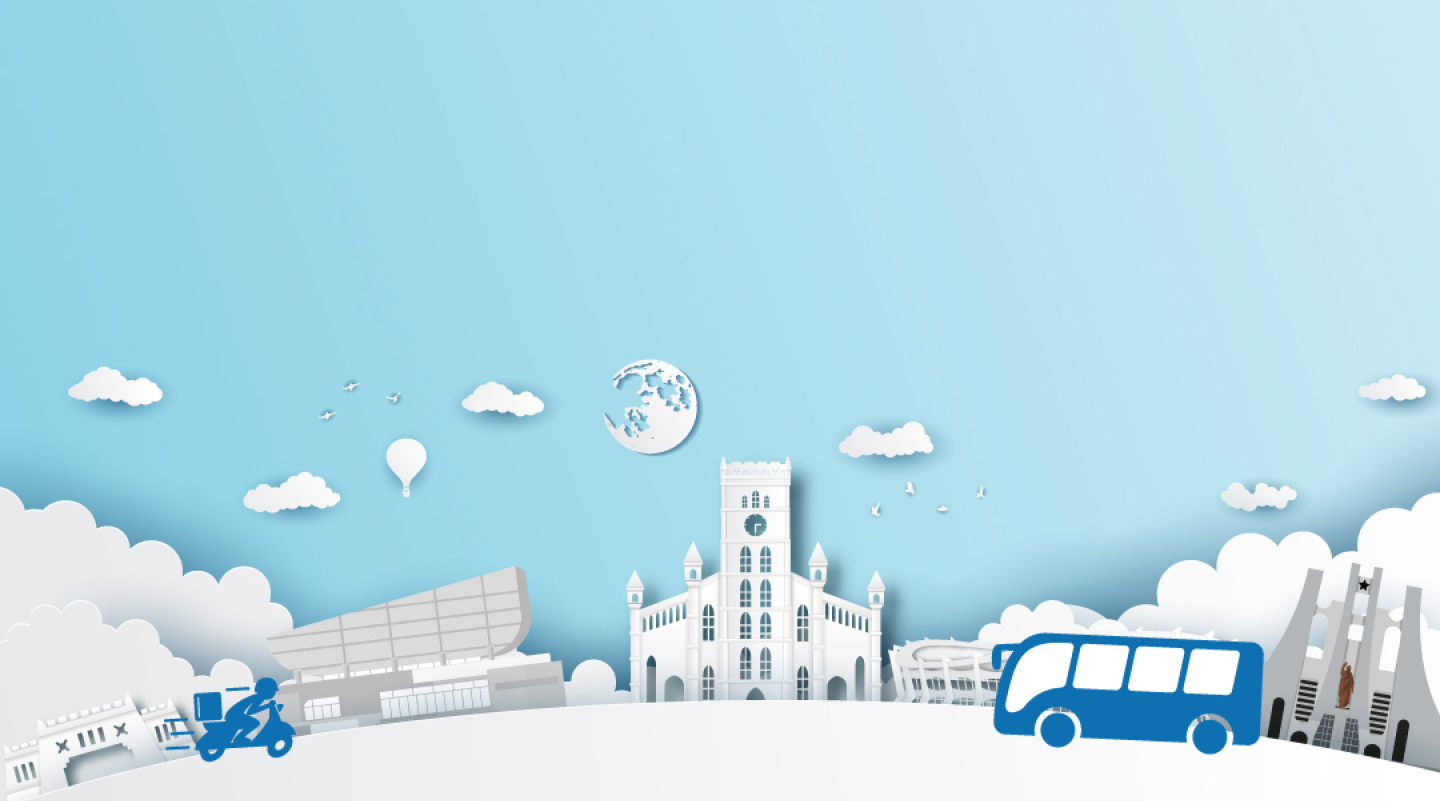
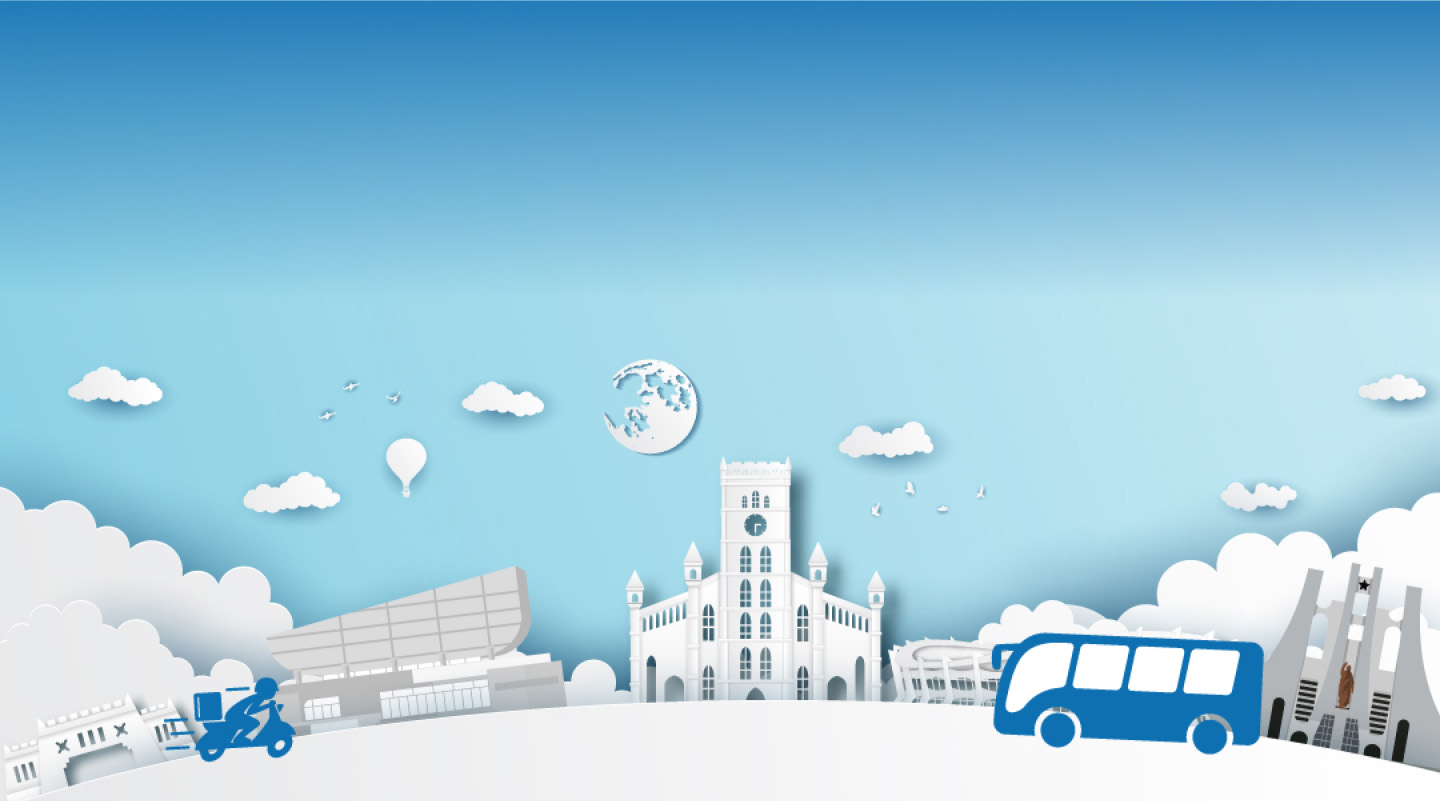
update responsive

diff --git a/index.html b/index.html
@@ -4,15 +4,15 @@
     <meta charset="UTF-8"/>
     <meta name="viewport" content="width=device-width, initial-scale=1.0"/>
     <title>Safe-Journey</title>
-    <link rel="stylesheet" href="../css/reset.css"/>
-    <link rel="stylesheet" href="../css/style.css"/>
+    <link rel="stylesheet" href="css/reset.css"/>
+    <link rel="stylesheet" href="css/style.css"/>
   </head>
   <body>
     <div class="wrapper">
       <div class="row">
         <header class="header container">
           <nav class="nav">
-            <div class="logo"><a href="javascript:void(0)"><img src="../img/logo.png"/></a></div>
+            <div class="logo"><a href="javascript:void(0)"><img src="img/logo.png"/></a></div>
             <ul class="nav__list">
               <li class="nav__item"><a class="nav__link nav__link--active" href="javascript:void(0)">Home</a></li>
               <li class="nav__item"><a class="nav__link" href="javascript:void(0)">About Us</a></li>
@@ -23,7 +23,6 @@
         </header>
       </div>
       <div class="row row--bg">
-        <div class="shadow"></div>
         <div class="banner container">
           <h1 class="banner__title">Compare Prices. Book Tickets. Send Luggage</h1>
           <p class="banner__desc">Search Through 15,802 Buses Across Nigeria & Ghana</p>
@@ -55,7 +54,7 @@
               </div>
             </div>
             <div class="btn">
-              <button class="btn__search">Search Bus</button><img src="../img/icon-arrow-white.png"/>
+              <button class="btn__search">Search Bus</button><img src="img/icon-arrow-white.png"/>
             </div>
           </div>
         </div>
@@ -106,24 +105,24 @@
             </div>
             <div class="top__right">
               <ul>
-                <li><a href="javascript:void(0)"><img src="../img/icon-back.png" alt=""/></a></li>
-                <li><a class="active" href="javascript:void(0)"><img src="../img/icon-next.png" alt=""/></a></li>
+                <li><a href="javascript:void(0)"><img src="img/icon-back.png" alt=""/></a></li>
+                <li><a class="active" href="javascript:void(0)"><img src="img/icon-next.png" alt=""/></a></li>
               </ul>
             </div>
           </div>
           <div class="top__box">
             <div class="top__item">
-              <div class="img"><img src="../img/img-book1.jpg" alt=""/></div>
+              <div class="img"><img src="img/img-book1.jpg" alt=""/></div>
               <p>Lagos - Enugu</p>
               <div class="book"><a href="javascript:void(0)">BOOK NOW</a></div>
             </div>
             <div class="top__item">
-              <div class="img"><img src="../img/img-book2.jpg" alt=""/></div>
+              <div class="img"><img src="img/img-book2.jpg" alt=""/></div>
               <p>Abuja - Lagos</p>
               <div class="book"><a href="javascript:void(0)">BOOK NOW</a></div>
             </div>
             <div class="top__item">
-              <div class="img"><img src="../img/img-book3.jpg" alt=""/></div>
+              <div class="img"><img src="img/img-book3.jpg" alt=""/></div>
               <p>Lagos - Kano</p>
               <div class="book"><a href="javascript:void(0)">BOOK NOW</a></div>
             </div>
@@ -144,13 +143,13 @@
             <h2>Download Our Mobile App</h2>
             <p>Booking your trip is just a touch away. With our mobile app, you can book anytime on the go.</p>
             <div class="download__box">
-              <div class="img"><img src="../img/chplay.png" alt=""/></div>
-              <div class="img"><img src="../img/apple.png" alt=""/></div>
+              <div class="img"><img src="img/chplay.png" alt=""/></div>
+              <div class="img"><img src="img/apple.png" alt=""/></div>
             </div>
           </div>
           <div class="download__right">
-            <div class="img"><img src="../img/iphone.png" alt=""/></div>
-            <div class="img"><img src="../img/Note15.png" alt=""/></div>
+            <div class="img"><img src="img/iphone.png" alt=""/></div>
+            <div class="img"><img src="img/Note15.png" alt=""/></div>
           </div>
         </div>
       </div>
@@ -162,8 +161,8 @@
             </div>
             <div class="top__right">
               <ul>
-                <li><a href="javascript:void(0)"><img src="../img/icon-back.png" alt=""/></a></li>
-                <li><a class="active" href="javascript:void(0)"><img src="../img/icon-next.png" alt=""/></a></li>
+                <li><a href="javascript:void(0)"><img src="img/icon-back.png" alt=""/></a></li>
+                <li><a class="active" href="javascript:void(0)"><img src="img/icon-next.png" alt=""/></a></li>
               </ul>
             </div>
           </div>
@@ -171,18 +170,18 @@
             <div class="review__item">
               <div class="review__star">
                 <ul>
-                  <li><a href="javascript:void(0)"><img src="../img/icon-star-yellow.png" alt=""/></a></li>
-                  <li><a href="javascript:void(0)"><img src="../img/icon-star-yellow.png" alt=""/></a></li>
-                  <li><a href="javascript:void(0)"><img src="../img/icon-star-yellow.png" alt=""/></a></li>
-                  <li><a href="javascript:void(0)"><img src="../img/icon-star-yellow.png" alt=""/></a></li>
-                  <li><a href="javascript:void(0)"><img src="../img/icon-star.png" alt=""/></a></li>
+                  <li><a href="javascript:void(0)"><img src="img/icon-star-yellow.png" alt=""/></a></li>
+                  <li><a href="javascript:void(0)"><img src="img/icon-star-yellow.png" alt=""/></a></li>
+                  <li><a href="javascript:void(0)"><img src="img/icon-star-yellow.png" alt=""/></a></li>
+                  <li><a href="javascript:void(0)"><img src="img/icon-star-yellow.png" alt=""/></a></li>
+                  <li><a href="javascript:void(0)"><img src="img/icon-star.png" alt=""/></a></li>
                 </ul>
               </div>
               <div class="review__text">
                 <p>"Last December, on the 22nd, my beautiful wife and daughter travelled to Ghana to see our uncle in Accra, she was a bit scared going by road instead of flying but the way your customer care (Esther) spoke to us, calmed her down and we had a beautiful time booking & travelling with your platform! Una Try oh!!"</p>
               </div>
               <div class="review__author">
-                <div class="author__avata"><img src="../img/ava1.png" alt=""/></div>
+                <div class="author__avata"><img src="img/ava1.png" alt=""/></div>
                 <div class="author__info">
                   <div class="author__name">
                     <h3>AUSTIN</h3>
@@ -196,18 +195,18 @@
             <div class="review__item">
               <div class="review__star">
                 <ul>
-                  <li><a href="javascript:void(0)"><img src="../img/icon-star-yellow.png" alt=""/></a></li>
-                  <li><a href="javascript:void(0)"><img src="../img/icon-star-yellow.png" alt=""/></a></li>
-                  <li><a href="javascript:void(0)"><img src="../img/icon-star-yellow.png" alt=""/></a></li>
-                  <li><a href="javascript:void(0)"><img src="../img/icon-star-yellow.png" alt=""/></a></li>
-                  <li><a href="javascript:void(0)"><img src="../img/icon-star-yellow.png" alt=""/></a></li>
+                  <li><a href="javascript:void(0)"><img src="img/icon-star-yellow.png" alt=""/></a></li>
+                  <li><a href="javascript:void(0)"><img src="img/icon-star-yellow.png" alt=""/></a></li>
+                  <li><a href="javascript:void(0)"><img src="img/icon-star-yellow.png" alt=""/></a></li>
+                  <li><a href="javascript:void(0)"><img src="img/icon-star-yellow.png" alt=""/></a></li>
+                  <li><a href="javascript:void(0)"><img src="img/icon-star-yellow.png" alt=""/></a></li>
                 </ul>
               </div>
               <div class="review__text">
                 <p>"I had never heard of your company till my friend told me about it this year. I was trying to get a cheap bus from PH to lag as a student na, lol... Anyways, I am glad I did because I met someone special on my way. Thank God for my friend & your company too"</p>
               </div>
               <div class="review__author">
-                <div class="author__avata"><img src="../img/ava2.png" alt=""/></div>
+                <div class="author__avata"><img src="img/ava2.png" alt=""/></div>
                 <div class="author__info">
                   <div class="author__name">
                     <h3>SANDRA K</h3>
@@ -221,18 +220,18 @@
             <div class="review__item active">
               <div class="review__star">
                 <ul>
-                  <li><a href="javascript:void(0)"><img src="../img/icon-star-yellow.png" alt=""/></a></li>
-                  <li><a href="javascript:void(0)"><img src="../img/icon-star-yellow.png" alt=""/></a></li>
-                  <li><a href="javascript:void(0)"><img src="../img/icon-star-yellow.png" alt=""/></a></li>
-                  <li><a href="javascript:void(0)"><img src="../img/icon-star-yellow.png" alt=""/></a></li>
-                  <li><a href="javascript:void(0)"><img src="../img/icon-star-yellow.png" alt=""/></a></li>
+                  <li><a href="javascript:void(0)"><img src="img/icon-star-yellow.png" alt=""/></a></li>
+                  <li><a href="javascript:void(0)"><img src="img/icon-star-yellow.png" alt=""/></a></li>
+                  <li><a href="javascript:void(0)"><img src="img/icon-star-yellow.png" alt=""/></a></li>
+                  <li><a href="javascript:void(0)"><img src="img/icon-star-yellow.png" alt=""/></a></li>
+                  <li><a href="javascript:void(0)"><img src="img/icon-star-yellow.png" alt=""/></a></li>
                 </ul>
               </div>
               <div class="review__text">
                 <p>"My husband was returning from the States for our 5th wedding anniversary, so our church RCCG decided at the last minute to surprise him at the airport. We were lost and needed to charter a vehicle when God sent us your advert on my bible app!! Long story short, it was our best anniversary till date. God bless."</p>
               </div>
               <div class="review__author">
-                <div class="author__avata"><img src="../img/ava3.png" alt=""/></div>
+                <div class="author__avata"><img src="img/ava3.png" alt=""/></div>
                 <div class="author__info">
                   <div class="author__name">
                     <h3>MRS. BRIFO</h3>
@@ -250,10 +249,10 @@
         <div class="ads container">
           <div class="ads__bg"></div>
           <div class="ads__list">
-            <div class="ads__item"><img src="../img/logo1.png" alt=""/></div>
-            <div class="ads__item"><img src="../img/logo2.png" alt=""/></div>
-            <div class="ads__item"><img src="../img/logo3.png" alt=""/></div>
-            <div class="ads__item"><img src="../img/logo4.png" alt=""/></div>
+            <div class="ads__item"><img src="img/logo1.png" alt=""/></div>
+            <div class="ads__item"><img src="img/logo2.png" alt=""/></div>
+            <div class="ads__item"><img src="img/logo3.png" alt=""/></div>
+            <div class="ads__item"><img src="img/logo4.png" alt=""/></div>
           </div>
         </div>
       </div>
@@ -279,13 +278,13 @@
               <div class="footer__box">
                 <p>Get through to us via our social media platform below. Instagram , Twitter and Facebook.</p>
                 <ul class="social">
-                  <li class="social__img"><a><img src="../img/icon-ins.png" alt=""/></a></li>
-                  <li class="social__img"><a><img src="../img/icon-twitter.png" alt=""/></a></li>
-                  <li class="social__img"><a><img src="../img/icon-facebook.png" alt=""/></a></li>
+                  <li class="social__img"><a><img src="img/icon-ins.png" alt=""/></a></li>
+                  <li class="social__img"><a><img src="img/icon-twitter.png" alt=""/></a></li>
+                  <li class="social__img"><a><img src="img/icon-facebook.png" alt=""/></a></li>
                 </ul>
                 <p>We have an online customer care support that can attend to all your complaints through our live chat and you can also call us on.</p>
                 <div class="contact">
-                  <div class="contact__img"><img src="../img/icon-phone.png" alt=""/></div>
+                  <div class="contact__img"><img src="img/icon-phone.png" alt=""/></div>
                   <p>09076555353</p>
                 </div>
               </div>

diff --git a/src/style.scss b/src/style.scss
@@ -23,7 +23,7 @@ html {
   padding: 0 10rem;
 }
 .row {
-  width: $width;
+  max-width: $width;
   margin: 0 auto;
 }
 // header
@@ -59,22 +59,22 @@ html {
 }
 .row--bg {
   position: relative;
-  width: $width;
+  max-width: $width;
   height: 100%;
   background: url("../img/bg-big.jpg") no-repeat center center;
 }
-.shadow {
-  position: absolute;
-  width: $width;
-  height: 80rem;
-  left: 0px;
-  top: 0px;
-  background: linear-gradient(
-    180deg,
-    #126fb2 -4.75%,
-    rgba(18, 111, 178, 0) 37.27%
-  );
-}
+// .shadow {
+//   position: absolute;
+//   width: 100%;
+//   height: 80rem;
+//   left: 0px;
+//   top: 0px;
+//   background: linear-gradient(
+//     180deg,
+//     #126fb2 -4.75%,
+//     rgba(18, 111, 178, 0) 37.27%
+//   );
+// }
 
 // banner
 .banner {
@@ -87,6 +87,9 @@ html {
   justify-content: center;
   align-items: center;
   margin-bottom: 5rem;
+  text-align: center;
+  box-sizing: border-box;
+
   &__title {
     font-size: 5.8rem;
     line-height: 7.1rem;
@@ -102,7 +105,7 @@ html {
   }
 }
 .box {
-  width: 124rem;
+  max-width: 124rem;
   height: 35.6rem;
   background: #ffffff;
   box-shadow: 0px 2rem 4rem rgba(196, 196, 196, 0.15);
@@ -135,6 +138,7 @@ html {
   &__date {
     display: flex;
     justify-content: space-between;
+    // flex-wrap: wrap;
     align-items: center;
     margin-bottom: 4rem;
   }
@@ -685,5 +689,28 @@ html {
     border: none;
     font-weight: 400;
     cursor: pointer;
+  }
+}
+
+@media only screen and (max-width: 1362px) {
+  .banner__title {
+    font-size: 5rem;
+  }
+}
+@media only screen and (max-width: 1362px) {
+  .banner__title {
+    font-size: 5rem;
+  }
+  .review__box {
+    flex-wrap: wrap;
+  }
+  .review__item:nth-child(3) {
+    margin-top: 7rem;
+  }
+}
+
+@media only screen and (max-width: 1205px) {
+  .shadow {
+    // display: none;
   }
 }

diff --git a/css/style.css b/css/style.css
@@ -19,7 +19,7 @@ html {
 }
 
 .row {
-  width: 144rem;
+  max-width: 144rem;
   margin: 0 auto;
 }
 
@@ -55,18 +55,9 @@ html {
 
 .row--bg {
   position: relative;
-  width: 144rem;
+  max-width: 144rem;
   height: 100%;
   background: url("../img/bg-big.jpg") no-repeat center center;
-}
-
-.shadow {
-  position: absolute;
-  width: 144rem;
-  height: 80rem;
-  left: 0px;
-  top: 0px;
-  background: linear-gradient(180deg, #126fb2 -4.75%, rgba(18, 111, 178, 0) 37.27%);
 }
 
 .banner {
@@ -79,6 +70,8 @@ html {
   justify-content: center;
   align-items: center;
   margin-bottom: 5rem;
+  text-align: center;
+  box-sizing: border-box;
 }
 .banner__title {
   font-size: 5.8rem;
@@ -95,7 +88,7 @@ html {
 }
 
 .box {
-  width: 124rem;
+  max-width: 124rem;
   height: 35.6rem;
   background: #ffffff;
   box-shadow: 0px 2rem 4rem rgba(196, 196, 196, 0.15);
@@ -641,6 +634,25 @@ html {
   border: none;
   font-weight: 400;
   cursor: pointer;
+}
+
+@media only screen and (max-width: 1362px) {
+  .banner__title {
+    font-size: 5rem;
+  }
+}
+@media only screen and (max-width: 1362px) {
+  .banner__title {
+    font-size: 5rem;
+  }
+
+  .review__box {
+    flex-wrap: wrap;
+  }
+
+  .review__item:nth-child(3) {
+    margin-top: 7rem;
+  }
 }
 
 /*# sourceMappingURL=style.css.map */
